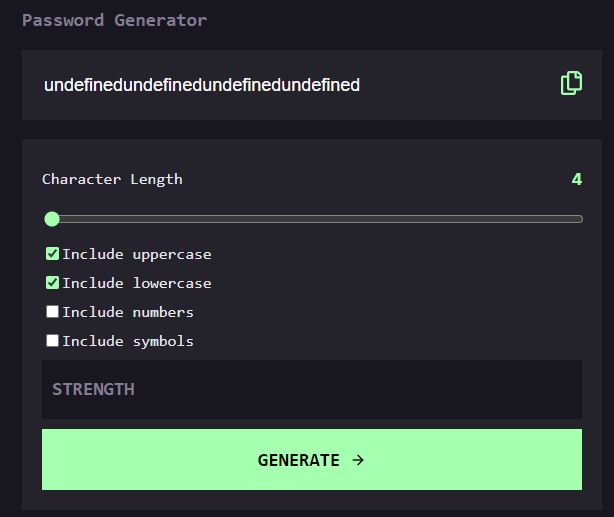
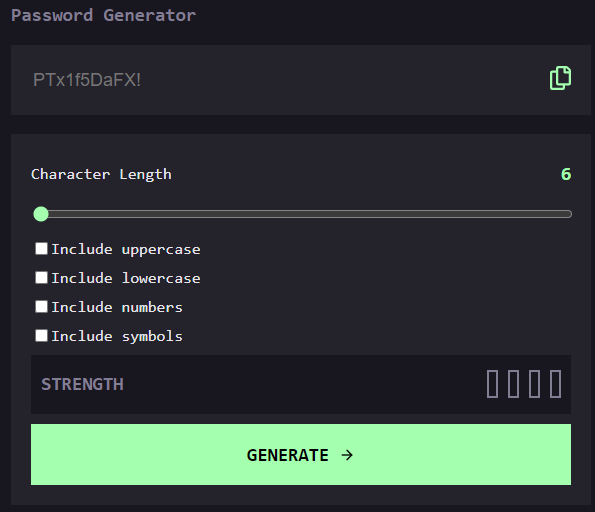
fix strength level issues

diff --git a/src/components/Generate.tsx b/src/components/Generate.tsx
@@ -7,6 +7,8 @@ import {
   RangeInput,
   GenerateButton,
   Strength,
+  FlexStyle,
+  StrengthText,
 } from "../Styles";
 
 type GenerateProps = {
@@ -26,20 +28,22 @@ const Generate = ({
   changebg,
   strength,
 }: GenerateProps) => {
+  const getBarStyle = (index: number) => {
+    const thresholds: { [key: string]: number } = {
+      "Too Weak!": 1,
+      Weak: 2,
+      Medium: 3,
+      Strong: 4,
+    };
 
-  const getBarColor = (index: number) => {
-    switch (strength) {
-      case "Too Weak":
-        return index === 0 ? changebg : "#817D92";
-      case "Weak":
-        return index < 2 ? changebg : "#817D92";
-      case "Medium":
-        return index < 3 ? changebg : "#817D92";
-      case "Strong":
-        return changebg;
-      default:
-        return "#817D92";
-    }
+    const threshold = thresholds[strength] || 0;
+    return {
+      width: "8px",
+      height: "24px",
+      backgroundColor: index < threshold ? changebg : "transparent",
+      border:
+        index < threshold ? ` 2px solid ${changebg}` : "2px solid #817D92",
+    };
   };
 
   return (
@@ -62,26 +66,14 @@ const Generate = ({
 
       <Strength>
         <h3 style={{ color: "#817D92" }}>STRENGTH</h3>
-        <div style={{ display: "flex", alignItems: "center", gap: "15px" }}>
-          <h2 style={{ textTransform: "uppercase", fontWeight: "600" }}>
-            {strength}
-          </h2>
-          <article
-            style={{ display: "flex", alignItems: "center", gap: "10px" }}
-          >
+        <FlexStyle>
+          <StrengthText>{strength}</StrengthText>
+          <FlexStyle>
             {[...Array(4)].map((_, index) => (
-              <div
-                key={index}
-                style={{
-                  width: "7px",
-                  height: "24px",
-                  backgroundColor: getBarColor(index),
-                  border: `2px solid ${strength === "" ? "#817D92" : getBarColor(index)}`,
-                }}
-              ></div>
+              <div key={index} style={getBarStyle(index)}></div>
             ))}
-          </article>
-        </div>
+          </FlexStyle>
+        </FlexStyle>
       </Strength>
 
       <GenerateButton onClick={generatePassword}>

diff --git a/src/components/Form.tsx b/src/components/Form.tsx
@@ -1,4 +1,4 @@
-import { Include } from "../Styles";
+import { Include, Checkmark } from "../Styles";
 import { FormValues } from "../App";
 
 type GenerateProps = {
@@ -12,48 +12,44 @@ const Form = ({ formData, handleFormChange }: GenerateProps) => {
   return (
     <form>
       <Include>
-        <input
+        <Checkmark
           type="checkbox"
           id="uppercase"
           name="uppercase"
           checked={uppercase}
-          style={{ accentColor: "#A4FFAF" }}
           onChange={handleFormChange}
         />
         <label htmlFor="uppercase">Include uppercase</label>
       </Include>
 
       <Include>
-        <input
+        <Checkmark
           type="checkbox"
           id="lowercase"
           name="lowercase"
           checked={lowercase}
-          style={{ accentColor: "#A4FFAF" }}
           onChange={handleFormChange}
         />
         <label htmlFor="lowercase">Include lowercase</label>
       </Include>
 
       <Include>
-        <input
+        <Checkmark
           type="checkbox"
           id="number"
           name="number"
           checked={number}
-          style={{ accentColor: "#A4FFAF" }}
           onChange={handleFormChange}
         />
         <label htmlFor="number">Include numbers</label>
       </Include>
 
       <Include>
-        <input
+        <Checkmark
           type="checkbox"
           id="symbol"
           name="symbol"
           checked={symbol}
-          style={{ accentColor: "#A4FFAF" }}
           onChange={handleFormChange}
         />
         <label htmlFor="symbol">Include symbols</label>

diff --git a/src/App.tsx b/src/App.tsx
@@ -44,8 +44,6 @@ function App() {
     }
   };
 
-  //console.log("formdata", formData)
-
   const getRandomPassword = () => {
     let chars = [];
 
@@ -97,27 +95,30 @@ function App() {
     if (/[!'^+%&/()=?_#$½§{[\]}|;:>÷`<.*-@é]/.test(password)) score += 1;
 
     switch (score) {
-      case 0:
-        setStrength("");
-        break;
-      case 1:
-        setStrength("Too Weak");
-        setChangeBg("#F64A4A");
-        break;
-      case 2:
-        setStrength("Weak");
-        setChangeBg("#FB7C58");
-        break;
-      case 3:
-        setStrength("Medium");
-        setChangeBg("#F8CD65");
-        break;
-      case 4:
-        setStrength("Strong");
-        setChangeBg("#A4FFAF");
-        break;
+        case 0:
+        case 1:
+            setStrength("Too Weak!");
+            setChangeBg("#F64A4A");
+            break;
+        case 2:
+            setStrength("Weak");
+            setChangeBg("#FB7C58");
+            break;
+        case 3:
+            setStrength("Medium");
+            setChangeBg("#F8CD65");
+            break;
+        case 4:
+            setStrength("Strong");
+            setChangeBg("#A4FFAF");
+            break;
+        default:
+            setStrength("Unknown");
+            setChangeBg("#D3D3D3");
+            break;
     }
-  };
+};
+
 
   const generatePassword = () => {
     let _password = "";

diff --git a/src/Styles.ts b/src/Styles.ts
@@ -56,6 +56,13 @@ export const GenerateButton = styled.div`
       color: #A4FFAF;
   }
 `
+export const Checkmark = styled.input`
+accent-color: #A4FFAF;
+
+&:hover{
+   accent-color: #A4FFAF;
+}
+`
 
 export const Strength = styled.div`
 margin: 10px 0;
@@ -65,6 +72,17 @@ display: flex;
 gap: 10px;
 justify-content: space-between;
 align-items: center
+`;
+
+export const StrengthText = styled.h2`
+text-transform: uppercase;
+font-weight: 600;
+font-size: 14px 
+`
+export const FlexStyle = styled.div`
+display: flex;
+align-items: center;
+gap:10px; 
 `
 
 export const Include = styled.div`

diff --git a/README.md b/README.md
@@ -2,12 +2,12 @@
 
 ![Page](./page.png)
 
-This app is a simple, user-friendly application that allows users to generate secure passwords based on selected options. Users can copy the generated password to their clipboard, see a strength rating for the password.
+This is a simple, user-friendly application that allows users to generate secure passwords based on selected options. Users can copy the generated password to their clipboard, see a strength rating for the password.
 
 ## Features
 
 - **Password Generation**: Generate a password based on selected inclusion options (uppercase letters, lowercase letters, numbers, symbols).
-- **Clipboard Copy**: Copy the generated password your clipboard with a single click.
+- **Clipboard Copy**: Copy the generated password to your clipboard with a single click.
 - **Password Strength Rating**: View a strength rating for the generated password to ensure security.
 - **Responsive Design**: The interface adapts to different device screen sizes for optimal user experience.
 
@@ -33,7 +33,7 @@ This app is a simple, user-friendly application that allows users to generate se
    ```bash
    npm run dev
    ```
-2. Open your browser and go to `http://localhost:3000` to view the app.
+2. Open your browser and go to `http://localhost:5173/` to view the app.
 3. Select the options for password generation (e.g., include uppercase, lowercase, numbers, symbols).
 4. Click the "Generate Password" button to create a new password.
 5. View the generated password and its strength rating.
@@ -44,5 +44,5 @@ This app is a simple, user-friendly application that allows users to generate se
 - **React**: A JavaScript library for building user interfaces.
 - **Typescript**: For checking data types.
 - **JavaScript**: For logic and interactivity.
-- **Clipboard API**: For copying the password to the clipboard.
+
 
